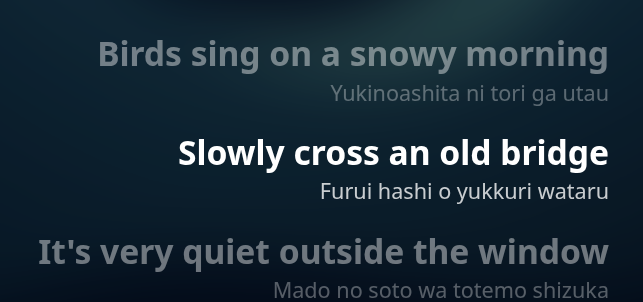
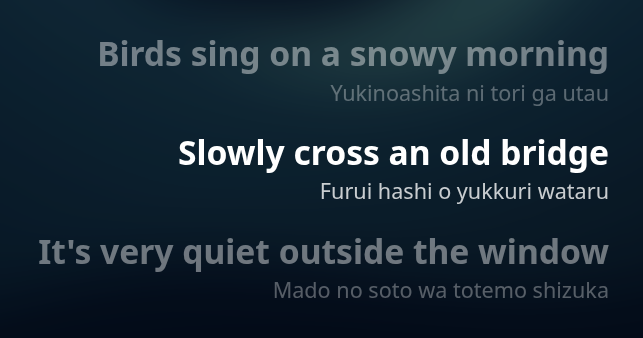
Even out the space above and below the romanization lyrics.

diff --git a/docs/index.html b/docs/index.html
@@ -79,7 +79,7 @@
         </ul></div>
     </div>
     <div class="split rev">
-      <div class="media"><img src="img/2-romanization.png" width="643" height="302" alt="Three invented lines shown as a large English translation with the romanization underneath, at the Large text size."></div>
+      <div class="media"><img src="img/2-romanization.png" width="643" height="338" alt="Three invented lines shown as a large English translation with the romanization underneath, at the Large text size."></div>
       <div><h3>Sing along in any script</h3>
         <p>Can't read the script? Follow the romanization line as the song plays.</p></div>
     </div>
